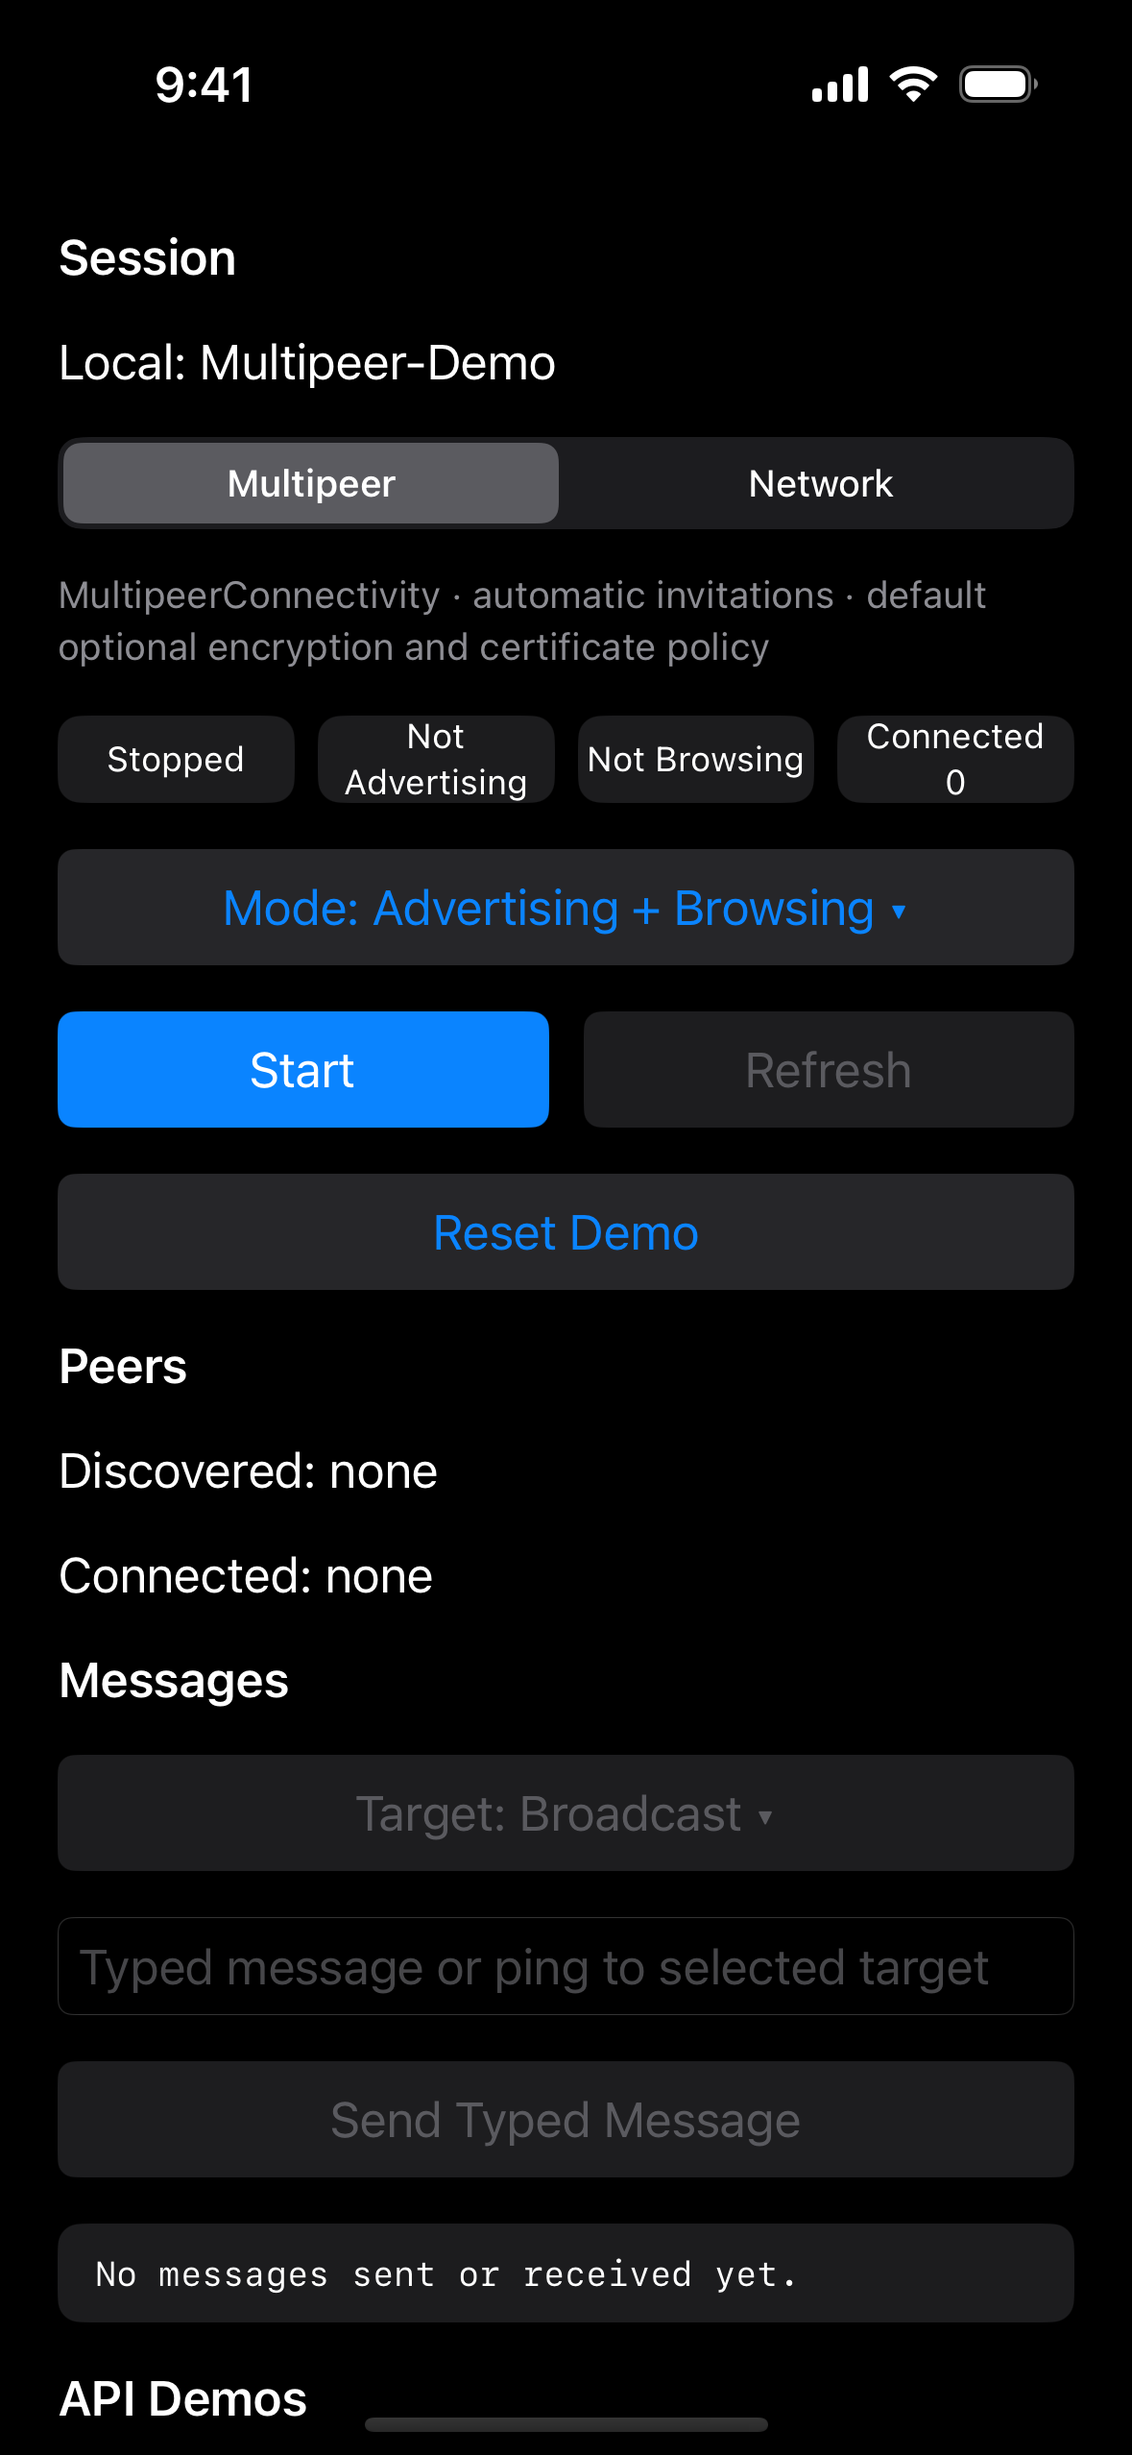
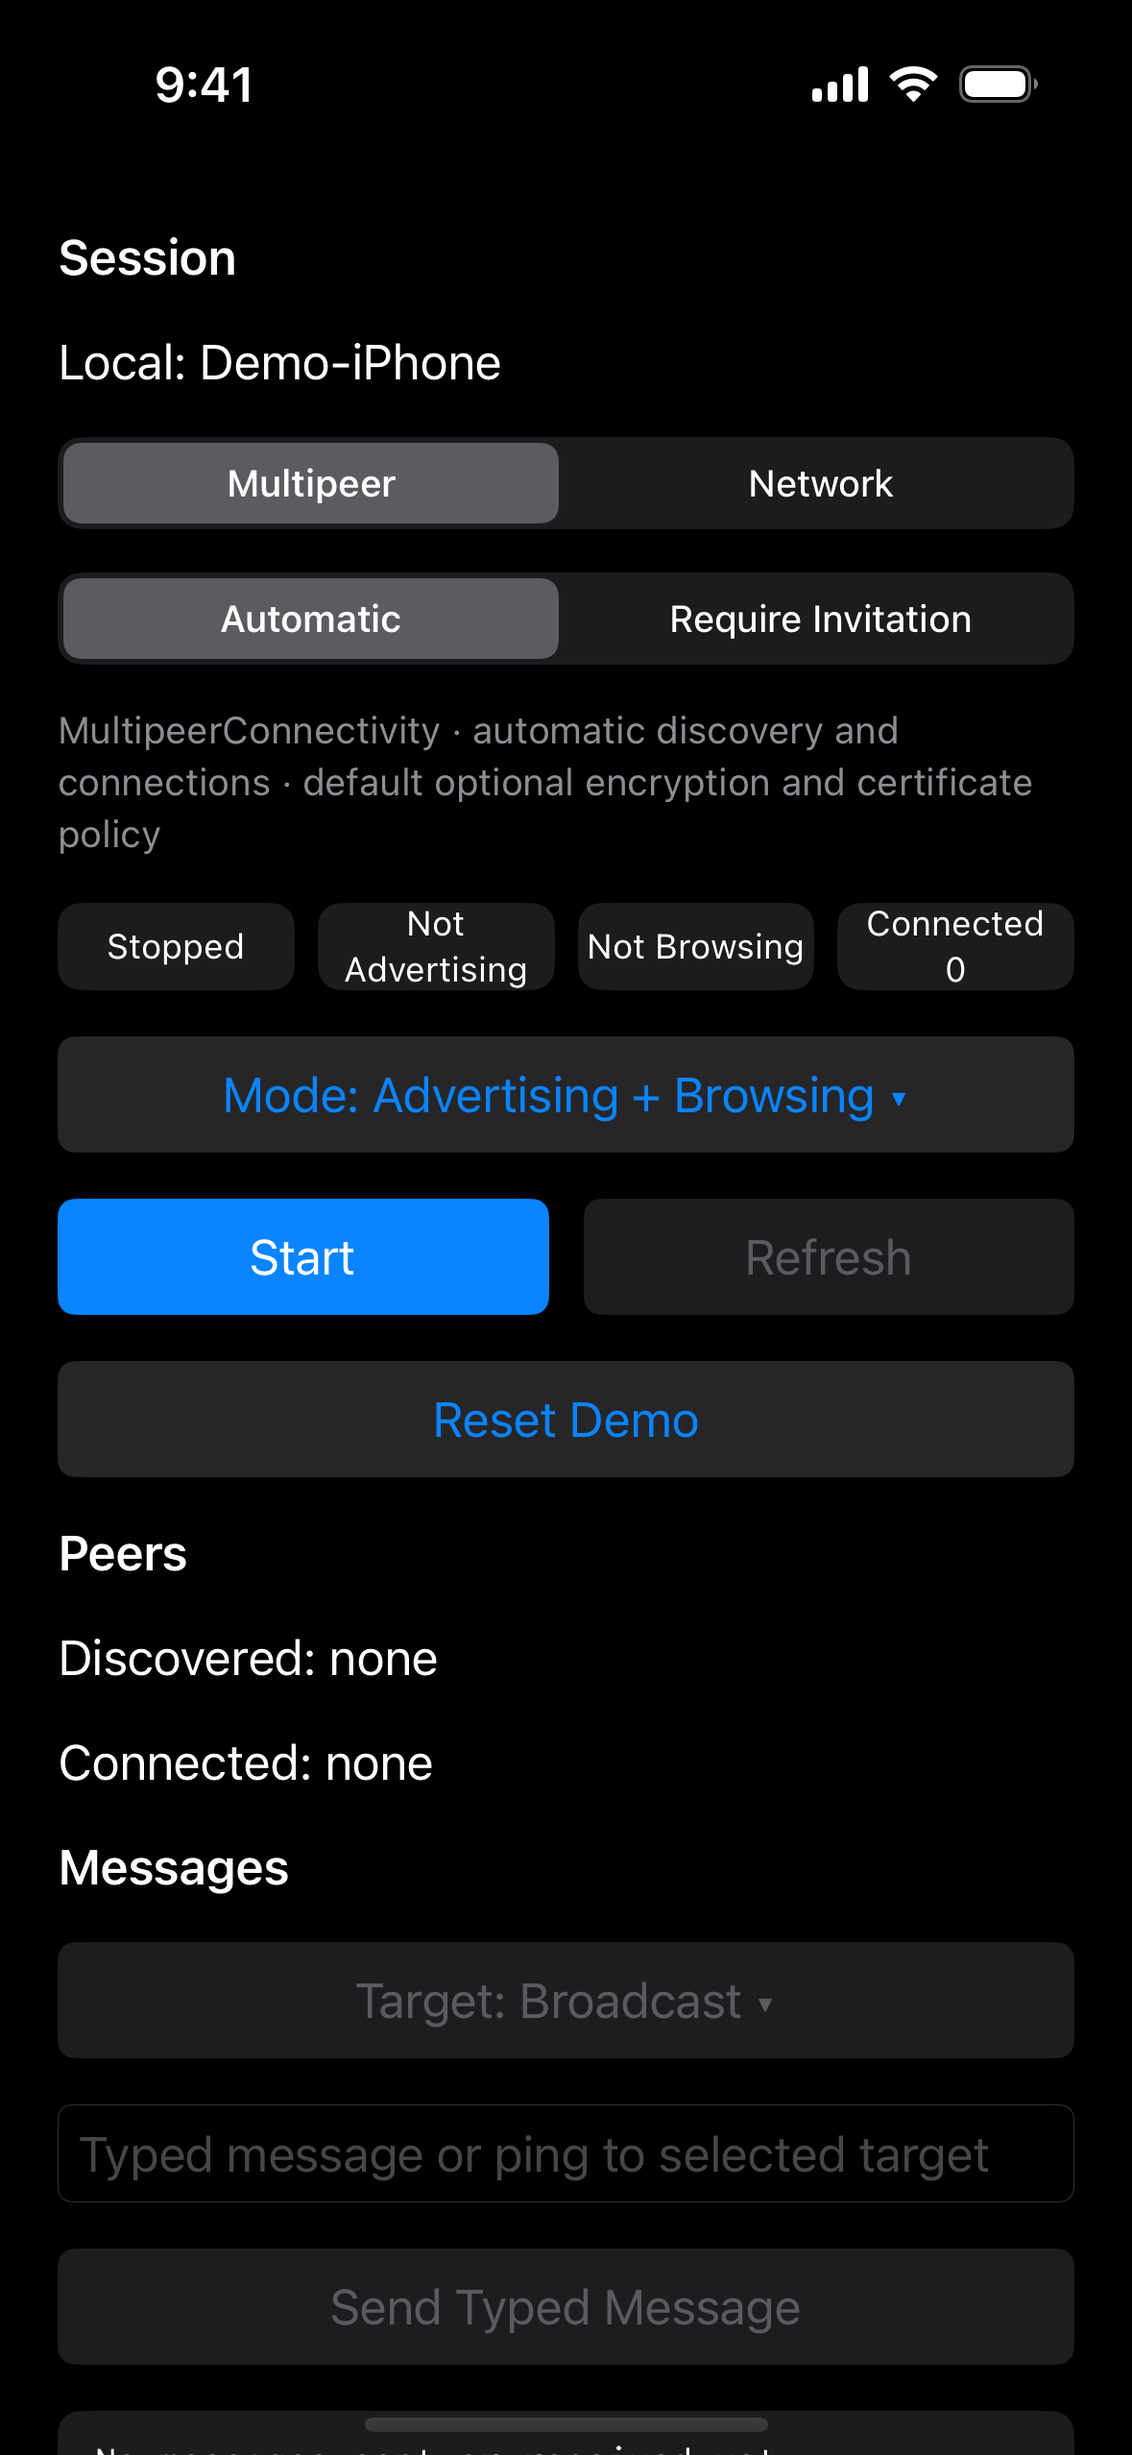
feat(demo): select connection invitation behavior

diff --git a/PeerConnectivityDemo/ViewController.swift b/PeerConnectivityDemo/ViewController.swift
@@ -32,10 +32,24 @@ class ViewController: UIViewController {
         }
     }
 
+    fileprivate enum ConnectionBehavior : String {
+        case automatic = "Automatic"
+        case requireInvitation = "Require Invitation"
+
+        fileprivate var connectionType : PeerConnectionType {
+            switch self {
+            case .automatic: return .automatic
+            case .requireInvitation: return .custom
+            }
+        }
+    }
+
     fileprivate var pcm : PeerConnectionManager!
     fileprivate var browserModel : PeerBrowserModel!
     fileprivate var isNetworking = false
     fileprivate var mode : ConnectionMode = .advertisingAndBrowsing
+    fileprivate var multipeerConnectionBehavior : ConnectionBehavior = .automatic
+    fileprivate var networkConnectionBehavior : ConnectionBehavior = .requireInvitation
     fileprivate var discoveredPeers : [Peer] = []
     fileprivate var connectedPeers : [Peer] = []
     fileprivate var selectedTargetPeer : Peer?
@@ -58,6 +72,7 @@ class ViewController: UIViewController {
     fileprivate let connectedBadgeLabel = UILabel()
     fileprivate let localPeerLabel = UILabel()
     fileprivate let backendControl = UISegmentedControl(items: ["Multipeer", "Network"])
+    fileprivate let connectionBehaviorControl = UISegmentedControl(items: ["Automatic", "Require Invitation"])
     fileprivate let backendDetailLabel = UILabel()
     fileprivate let modeButton = UIButton(type: .system)
     fileprivate let startStopButton = UIButton(type: .system)
@@ -130,16 +145,28 @@ private extension ViewController {
         return isNetworkBackend ? "Network.framework" : "MultipeerConnectivity"
     }
 
+    var selectedConnectionBehavior : ConnectionBehavior {
+        get {
+            return isNetworkBackend ? networkConnectionBehavior : multipeerConnectionBehavior
+        }
+        set {
+            if isNetworkBackend {
+                networkConnectionBehavior = newValue
+            } else {
+                multipeerConnectionBehavior = newValue
+            }
+        }
+    }
+
     func configureManager() {
         browserModel?.stopObserving()
         pcm?.stop()
         pcm?.removeAllListeners()
 
         let displayName = ViewController.argumentValue(for: "PCDisplayName") ?? ProcessInfo.processInfo.hostName
-        let connectionType : PeerConnectionType = isNetworkBackend ? .custom : .automatic
         pcm = PeerConnectionManager(
             serviceType: "local",
-            connectionType: connectionType,
+            connectionType: selectedConnectionBehavior.connectionType,
             displayName: displayName,
             securityConfiguration: .default,
             invitationPolicy: .acceptAll,
@@ -215,6 +242,7 @@ private extension ViewController {
         contentStack.addArrangedSubview(sectionTitle("Session"))
         contentStack.addArrangedSubview(localPeerLabel)
         contentStack.addArrangedSubview(backendControl)
+        contentStack.addArrangedSubview(connectionBehaviorControl)
         contentStack.addArrangedSubview(backendDetailLabel)
         contentStack.addArrangedSubview(statusCardRow())
         contentStack.addArrangedSubview(modeButton)
@@ -250,6 +278,12 @@ private extension ViewController {
 
     func configureActions() {
         backendControl.addTarget(self, action: #selector(changedBackend(_:)), for: .valueChanged)
+        connectionBehaviorControl.addTarget(self, action: #selector(changedConnectionBehavior(_:)), for: .valueChanged)
+        backendControl.accessibilityLabel = "Networking backend"
+        backendControl.accessibilityHint = "Selects the transport backend while networking is stopped"
+        connectionBehaviorControl.accessibilityLabel = "Connection behavior"
+        connectionBehaviorControl.accessibilityHint = "Choose automatic connections or explicit peer invitations while networking is stopped"
+        startStopButton.accessibilityHint = "Starts or stops peer advertising and browsing"
         startStopButton.addTarget(self, action: #selector(tappedStartStop(_:)), for: .touchUpInside)
         refreshButton.addTarget(self, action: #selector(tappedRefresh(_:)), for: .touchUpInside)
         resetButton.addTarget(self, action: #selector(tappedReset(_:)), for: .touchUpInside)
@@ -332,10 +366,14 @@ private extension ViewController {
         }
 
         localPeerLabel.text = "Local: \(pcm.peer.displayName)"
-        backendDetailLabel.text = isNetworkBackend
-            ? "Network.framework · manual invitations via PeerBrowserModel · unauthenticated demo transport"
-            : "MultipeerConnectivity · automatic invitations · default optional encryption and certificate policy"
+        connectionBehaviorControl.selectedSegmentIndex = selectedConnectionBehavior == .automatic ? 0 : 1
+        if selectedConnectionBehavior == .automatic {
+            backendDetailLabel.text = "\(backendName) · automatic discovery and connections\(isNetworkBackend ? " · unauthenticated demo transport" : " · default optional encryption and certificate policy")"
+        } else {
+            backendDetailLabel.text = "\(backendName) · app-owned discovery and explicit invitations via PeerBrowserModel\(isNetworkBackend ? " · unauthenticated demo transport" : "")"
+        }
         backendControl.isEnabled = !isNetworking
+        connectionBehaviorControl.isEnabled = !isNetworking
         statusBadgeLabel.text = isNetworking ? "Running" : "Stopped"
         advertisingBadgeLabel.text = isNetworking && mode.isAdvertising ? "Advertising" : "Not Advertising"
         browsingBadgeLabel.text = isNetworking && mode.isBrowsing ? "Browsing" : "Not Browsing"
@@ -381,10 +419,15 @@ private extension ViewController {
         if !isNetworking {
             hints.append("Start networking to advertise, browse, and connect to nearby devices.")
         }
-        if isNetworkBackend {
-            hints.append("Network mode requires a manual Invite action on one discovered peer before messages can be sent. Demo traffic is unauthenticated; do not send sensitive data.")
+        if selectedConnectionBehavior == .requireInvitation {
+            hints.append("Require Invitation waits for an explicit Invite action on a discovered peer before messages can be sent.")
         } else {
-            hints.append("Multipeer mode retains automatic invitation handling and remains the default backend.")
+            hints.append("Automatic connects to discovered peers without an app-owned Invite action.")
+        }
+        if isNetworkBackend {
+            hints.append("Network demo traffic is unauthenticated; do not send sensitive data.")
+        } else {
+            hints.append("Multipeer remains the default backend.")
         }
         if isNetworking && discoveredPeers.isEmpty && connectedPeers.isEmpty {
             hints.append("No peers yet. Confirm both devices use the same service type, are on the same Wi‑Fi or have Bluetooth enabled, and accepted Local Network permission.")
@@ -414,7 +457,7 @@ private extension ViewController {
         isNetworking = true
         if mode.isAdvertising { checkedItems.insert(.deviceAAdvertising) }
         if mode.isBrowsing { checkedItems.insert(.deviceBBrowsing) }
-        appendLog(kind: "session.start.requested", detail: "\(backendName), \(mode.rawValue)")
+        appendLog(kind: "session.start.requested", detail: "\(backendName), \(selectedConnectionBehavior.rawValue), \(mode.rawValue)")
         refreshUI()
     }
 
@@ -660,8 +703,8 @@ private extension ViewController {
             inviteButtonsStack.removeArrangedSubview(view)
             view.removeFromSuperview()
         }
-        inviteButtonsStack.isHidden = !isNetworkBackend
-        guard isNetworkBackend else { return }
+        inviteButtonsStack.isHidden = selectedConnectionBehavior != .requireInvitation
+        guard selectedConnectionBehavior == .requireInvitation else { return }
 
         if discoveredPeers.isEmpty {
             let label = UILabel()
@@ -678,8 +721,9 @@ private extension ViewController {
             configureSecondaryButton(button, title: "Invite \(peer.displayName) — \(statusText(peer.status))")
             button.contentHorizontalAlignment = .leading
             button.isEnabled = isNetworking && peer.status == .notConnected
+            button.accessibilityLabel = "Invite \(peer.displayName)"
             button.accessibilityHint = button.isEnabled
-                ? "Sends a manual Network framework invitation"
+                ? "Sends an explicit \(backendName) invitation"
                 : "This peer is not currently available for invitation"
             button.addAction(UIAction { [weak self] _ in
                 self?.invite(peer)
@@ -689,7 +733,7 @@ private extension ViewController {
     }
 
     func invite(_ peer: Peer) {
-        guard isNetworking, isNetworkBackend, peer.status == .notConnected else { return }
+        guard isNetworking, selectedConnectionBehavior == .requireInvitation, peer.status == .notConnected else { return }
         browserModel.invitePeer(peer)
         appendLog(kind: "invitation.sent", detail: "Invited \(peer.displayName)", peers: [peer], direction: .outbound)
     }
@@ -784,7 +828,17 @@ private extension ViewController {
         connectedPeers = []
         selectedTargetPeer = nil
         configureManager()
-        appendLog(kind: "session.backend.changed", detail: backendName)
+        appendLog(kind: "session.backend.changed", detail: "\(backendName), \(selectedConnectionBehavior.rawValue)")
+    }
+
+    @objc func changedConnectionBehavior(_ sender: UISegmentedControl) {
+        guard !isNetworking else { return }
+        selectedConnectionBehavior = sender.selectedSegmentIndex == 0 ? .automatic : .requireInvitation
+        discoveredPeers = []
+        connectedPeers = []
+        selectedTargetPeer = nil
+        configureManager()
+        appendLog(kind: "session.connection.behavior.changed", detail: "\(backendName), \(selectedConnectionBehavior.rawValue)")
     }
 
     @objc func tappedStartStop(_ sender: UIButton) {

diff --git a/PeerConnectivityDemo/README.md b/PeerConnectivityDemo/README.md
@@ -1,16 +1,21 @@
 # PeerConnectivity Demo
 
-The expanded demo exposes both transport backends without changing the library default. Choose **Multipeer** for automatic MultipeerConnectivity invitations or **Network** for Network.framework discovery with manual peer approval. Both modes retain the connection-mode controls, peer status, typed message history, raw data and resource exercises, structured logs, troubleshooting guidance, and physical-test checklist.
+The expanded demo exposes both transport backends without changing the library default. Choose **Multipeer** or **Network**, then choose **Automatic** or **Require Invitation** before starting. Both backends support both connection behaviors using the same public APIs. The demo remembers each backend's choice while it runs; defaults preserve the existing walkthroughs: Multipeer uses **Automatic**, while Network uses **Require Invitation**. All combinations retain the connection-mode controls, peer status, typed message history, raw data and resource exercises, structured logs, troubleshooting guidance, and physical-test checklist.
 
-## Network manual-invite flow
+## Connection behavior
+
+- **Automatic** creates the selected backend's manager with `.automatic`, so discovered peers connect automatically.
+- **Require Invitation** creates it with `.custom`. `PeerBrowserModel` supplies app-owned discovery state and the demo renders an explicit **Invite _peer name_** action for both backends.
+
+### Require-invitation flow
 
 1. Run the demo on two iOS simulators or devices on the same local network.
-2. Select **Network** on both instances, then tap **Start**.
+2. Select the same backend and **Require Invitation** on both instances, then tap **Start**.
 3. Under **Peers**, tap the enabled **Invite _peer name_** action supplied from `PeerBrowserModel` discovery state.
 4. Wait for the peer to report **Connected**.
 5. Enter a message or ping, optionally choose a target, and tap **Send Typed Message**. The receiving instance records the `PeerMessage` in message history and the structured event log.
 
-The demo's Network path uses `.custom` so discovery and invitation remain visible. It deliberately uses `.unauthenticated` transport and labels this in the UI; use it only for non-sensitive local migration testing. Production apps should provide app-managed `.preSharedKey` material and an appropriate trust model. Multipeer mode continues to use `.automatic` with the backward-compatible default `PeerSecurityConfiguration`.
+The Network backend deliberately uses `.unauthenticated` transport and labels this in the UI; use it only for non-sensitive local migration testing. Production apps should provide app-managed `.preSharedKey` material and an appropriate trust model. Multipeer remains the default backend and retains the backward-compatible default `PeerSecurityConfiguration`.
 
 ## Launch arguments
 
@@ -27,4 +32,4 @@ PCNetworkBackend PCAutoStart PCDisplayName Alice
 PCNetworkBackend PCAutoStart PCDisplayName Bob
 ```
 
-The backend selector is disabled while networking is running. Tap **Stop** before changing backends. Network mode does not support the demo resource exercise; that action logs the backend's explicit unsupported-operation error.
+The backend and connection-behavior selectors are disabled while networking is running. Tap **Stop** before changing either setting. Network mode does not support the demo resource exercise; that action logs the backend's explicit unsupported-operation error.

diff --git a/NetworkBackendGuide.md b/NetworkBackendGuide.md
@@ -131,7 +131,7 @@ Resource transfer and stream APIs are intentionally unsupported for the Network 
 
 ## Demo app
 
-The expanded demo shows the active backend and lets you choose **Multipeer** or **Network** before starting. The default remains MultipeerConnectivity. In Network mode, the manager uses `.custom`, manual **Invite _peer name_** actions come from `PeerBrowserModel`, and **Send Typed Message** exercises `PeerMessage` delivery while preserving message history, structured logging, troubleshooting, and the test checklist.
+The expanded demo shows the active backend and lets you choose **Multipeer** or **Network**, plus **Automatic** or **Require Invitation**, before starting. The default backend remains MultipeerConnectivity. Each backend remembers its connection-behavior choice for the demo session, with defaults that preserve prior behavior: Multipeer uses `.automatic`, while Network uses `.custom` for **Require Invitation**. Automatic mode uses each backend's automatic behavior. Require Invitation uses `PeerBrowserModel` for app-owned discovery and exposes manual **Invite _peer name_** actions for either backend. **Send Typed Message** exercises `PeerMessage` delivery while preserving message history, structured logging, troubleshooting, and the test checklist.
 
 The same path can be selected with launch arguments:
 
@@ -146,7 +146,7 @@ PCNetworkBackend PCAutoStart PCDisplayName Alice
 PCNetworkBackend PCAutoStart PCDisplayName Bob
 ```
 
-Tap the enabled invite action for a discovered peer, wait for its status to become **Connected**, then enter and send a typed message or ping. See [`PeerConnectivityDemo/README.md`](PeerConnectivityDemo/README.md) for the complete walkthrough.
+For **Require Invitation**, tap the enabled invite action for a discovered peer, wait for its status to become **Connected**, then enter and send a typed message or ping. The backend and connection-behavior selectors remain disabled until networking is stopped. See [`PeerConnectivityDemo/README.md`](PeerConnectivityDemo/README.md) for the complete walkthrough.
 
 This demo Network path is intentionally unauthenticated, visibly labels that limitation, and is only for non-sensitive local migration validation. Production apps should use app-managed `.preSharedKey` material and an appropriate trust model.
 

diff --git a/README.md b/README.md
@@ -118,12 +118,15 @@ let filteredBrowserViewController = pcm.browserViewController({ _ in }, peerFilt
 
 ## Demo App
 
-Run `PeerConnectivityDemo.xcodeproj` on two simulators or devices. The default **Multipeer**
-mode retains automatic invitations; the opt-in **Network** mode uses `PeerBrowserModel` and
-visible manual invite actions. Both modes retain advertising and browsing controls, connection
-state, typed message history, raw data and resource exercises, structured event logging,
-troubleshooting guidance, and the physical-test checklist. Discovery metadata events are logged
-as `peer.found.metadata` when nearby peers advertise Bonjour TXT record values.
+Run `PeerConnectivityDemo.xcodeproj` on two simulators or devices. Before starting, select the
+backend (**Multipeer** or **Network**) and connection behavior (**Automatic** or **Require
+Invitation**). Automatic uses the selected backend's `.automatic` behavior. Require Invitation
+uses `.custom`, `PeerBrowserModel`, and visible app-owned invite actions for either backend. The
+demo remembers each backend's selection while running and preserves the existing defaults:
+Multipeer automatic, Network require invitation. All combinations retain advertising and browsing
+controls, connection state, typed message history, raw data and resource exercises, structured
+event logging, troubleshooting guidance, and the physical-test checklist. Discovery metadata
+events are logged as `peer.found.metadata` when nearby peers advertise Bonjour TXT record values.
 
 ## API Compatibility Notes
 
